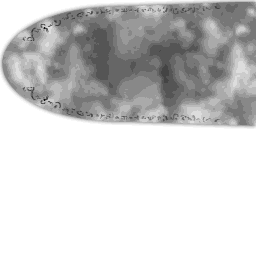
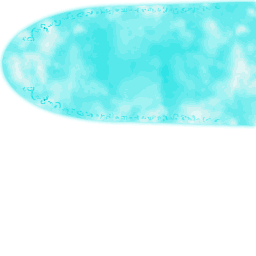
Minor Sprite Change

diff --git a/mima/files.js b/mima/files.js
@@ -995,7 +995,7 @@
 	"th08/data/front/ename.png": 4059987754,
 	"th08/data/front/front.png": 4235959138,
 	"th08/data/player00/player01.png": 169255612,
-	"th08/data/player00/player01b.png": 1447299854,
+	"th08/data/player00/player01b.png": 3148009018,
 	"th08/data/player00/player03.png": 1576664549,
 	"th08/data/stgenm/stg4benm.png": 3496821779,
 	"th08/data/text/stg4btxt.png": 542251230,
